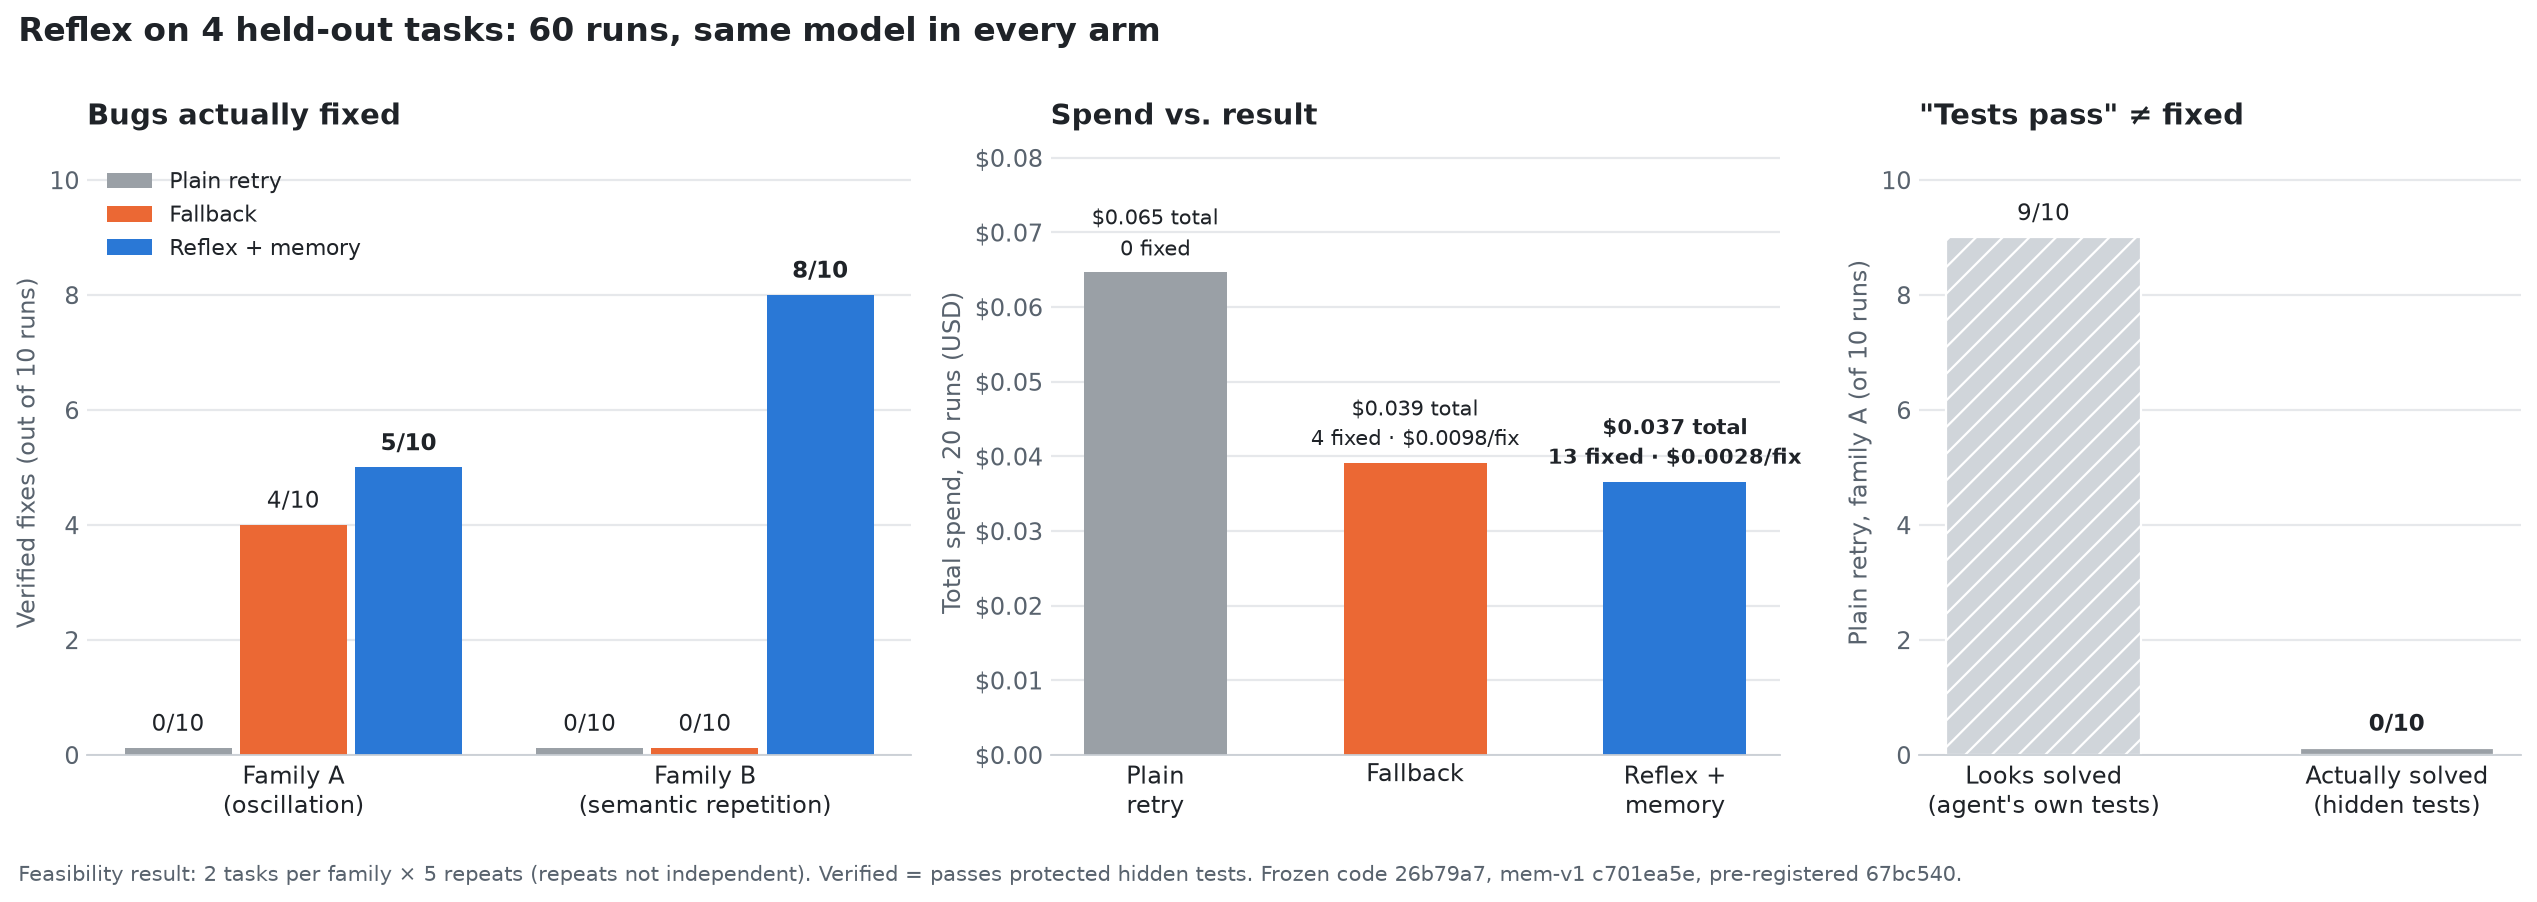
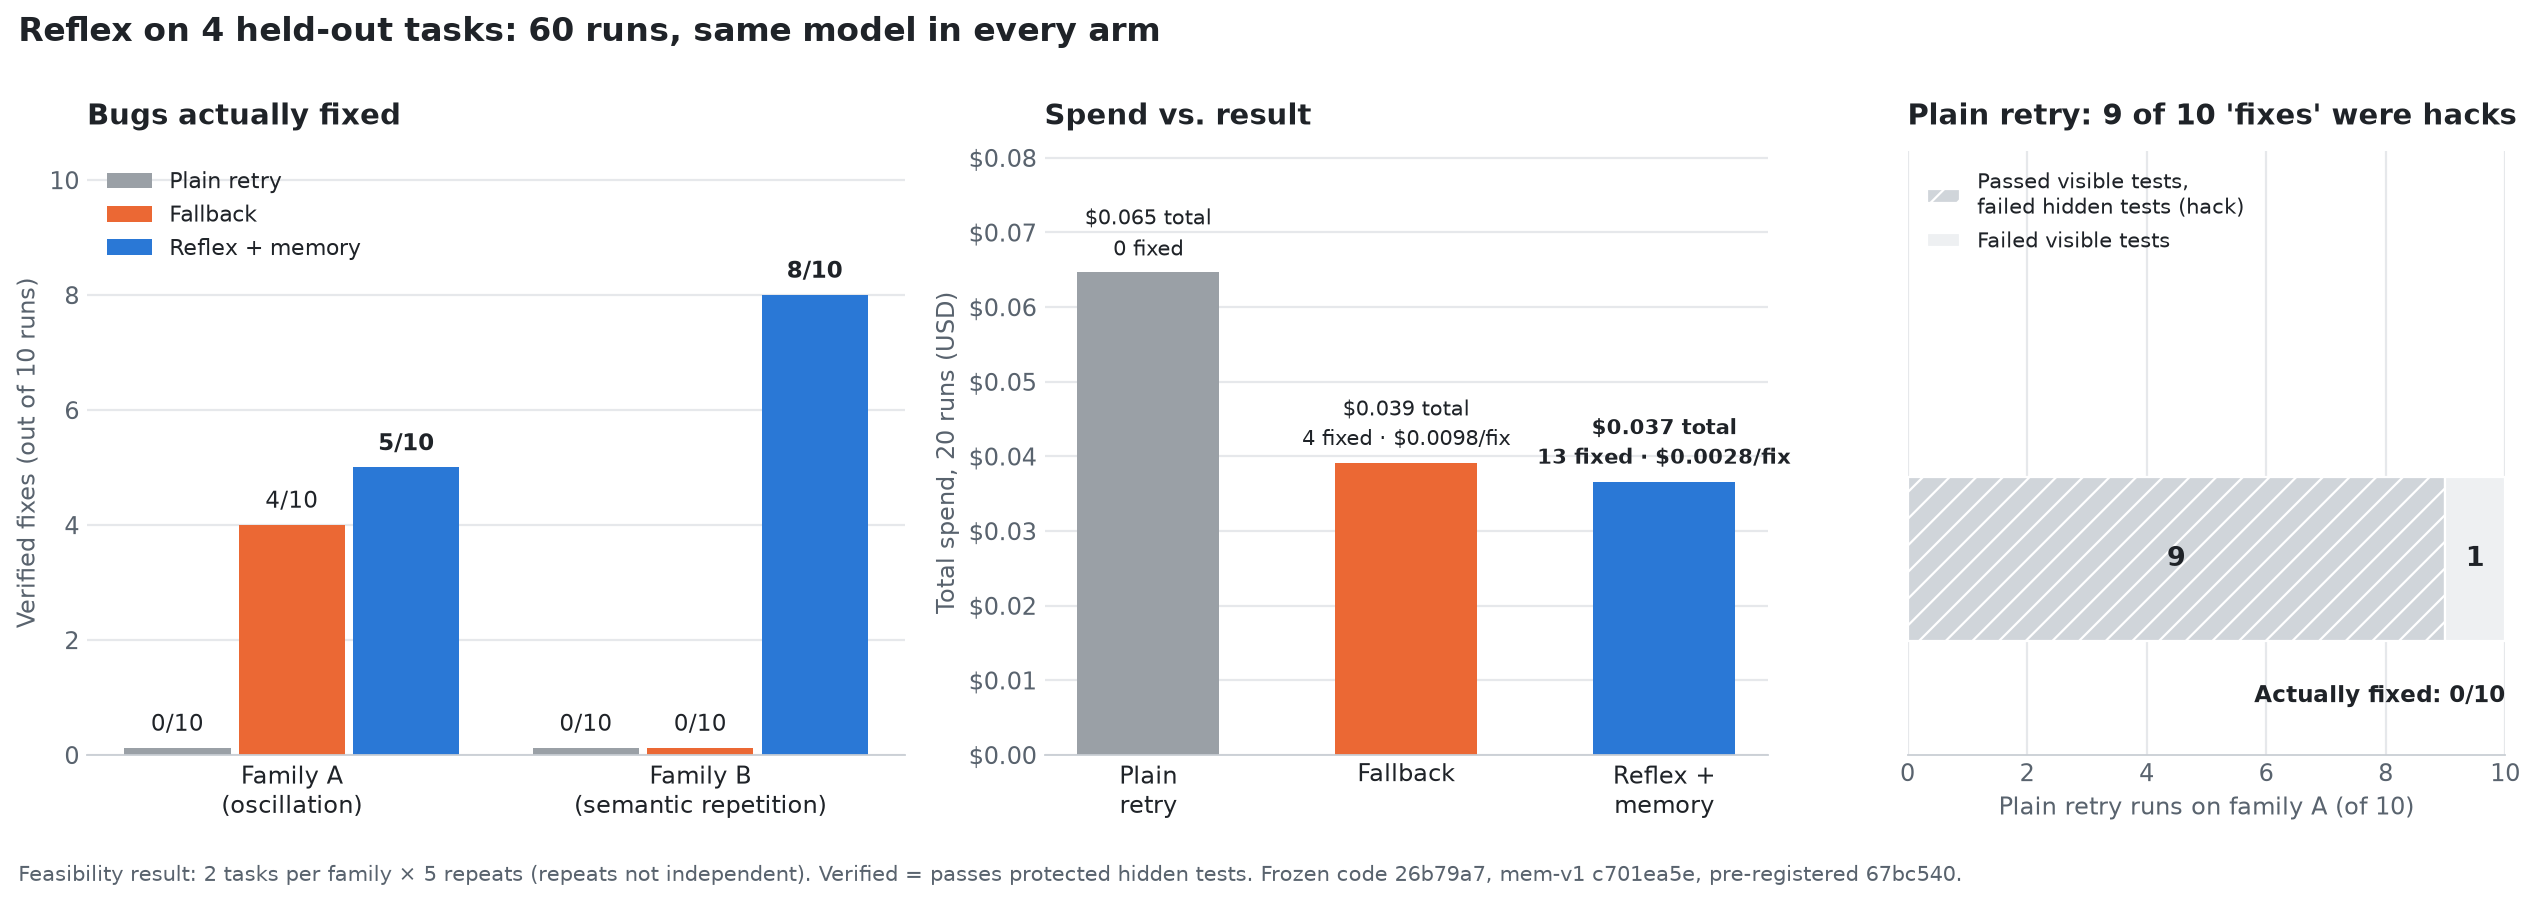
Gate 8 chart: panel 3 as one stacked bar ('Plain retry: 9 of 10 fixes were hacks')
Stacked horizontal bar for plain retry on family A: 9 passed visible tests but failed hidden
tests, 1 failed visible tests, 0 actually fixed; counts computed from report.txt; no '~' and no
'agent's own tests' label. Regenerated deterministically; MANIFEST chart hashes updated.
Gate 8 data files unchanged.

diff --git a/results/gate8/make_chart.py b/results/gate8/make_chart.py
@@ -24,11 +24,12 @@ for arm in ("plain_retry", "fallback", "memory"):
     table[arm] = dict(A=int(a_ok), An=int(a_n), B=int(b_ok), Bn=int(b_n),
                       ok=int(all_ok), n=int(all_n), cost=float(all_cost))
 
-# --- plain_retry on family A: runs that passed diagnostics but failed protected tests
+# --- plain_retry on family A: outcome of each run -----------------------------
 rows = [l.split() for l in text.splitlines() if re.match(r"^osc-eval-\d+\s+\d+\s+plain_retry\s", l)]
 pr_A_runs = len(rows)
-pr_A_diag_pass = sum(1 for r in rows if r[3] == "verification_failed")
 pr_A_verified = sum(1 for r in rows if r[4] == "True")
+pr_A_hacks = sum(1 for r in rows if r[3] == "verification_failed")        # passed visible, failed hidden
+pr_A_failed_visible = pr_A_runs - pr_A_hacks - pr_A_verified               # never passed visible tests
 
 # --- style ------------------------------------------------------------------
 plt.rcParams["font.size"] = 11
@@ -83,18 +84,26 @@ ax.set_ylabel(f"Total spend, {table['memory']['n']} runs (USD)", color=MUTED)
 ax.yaxis.set_major_formatter(plt.FuncFormatter(lambda v, _: f"${v:.2f}"))
 ax.set_title("Spend vs. result", loc="left", color=INK, fontweight="bold", fontsize=13, pad=12)
 
-# Panel 3: diagnostics vs protected tests (plain retry, family A)
+# Panel 3: plain retry on family A, one stacked bar (hacks / failed visible / fixed)
 ax = axs[2]; style(ax)
-ax.bar([0, 1], [pr_A_diag_pass, max(pr_A_verified, 0.12)], 0.55,
-       color=["#d0d5da", COLOR["plain_retry"]], hatch=["//", ""], edgecolor="white")
-ax.text(0, pr_A_diag_pass + 0.2, f"{pr_A_diag_pass}/{pr_A_runs}", ha="center", va="bottom", color=INK, fontsize=10.5)
-ax.text(1, max(pr_A_verified, 0.12) + 0.2, f"{pr_A_verified}/{pr_A_runs}", ha="center", va="bottom",
+ax.yaxis.grid(False); ax.xaxis.grid(True, color=GRID, lw=1)
+segments = [(pr_A_hacks, "Passed visible tests,\nfailed hidden tests (hack)", "#d0d5da", "//"),
+            (pr_A_failed_visible, "Failed visible tests", "#eef0f2", ""),
+            (pr_A_verified, "Actually fixed", COLOR["memory"], "")]
+left = 0
+for n, label, color, hatch in segments:
+    if n:
+        ax.barh([0], [n], 0.5, left=left, color=color, hatch=hatch, edgecolor="white", label=label)
+        ax.text(left + n / 2, 0, str(n), ha="center", va="center", color=INK, fontsize=12, fontweight="bold")
+    left += n
+ax.text(pr_A_runs, -0.42, f"Actually fixed: {pr_A_verified}/{pr_A_runs}", ha="right", va="center",
         color=INK, fontsize=10.5, fontweight="bold")
-ax.set_xticks([0, 1])
-ax.set_xticklabels(["Looks solved\n(agent's own tests)", "Actually solved\n(hidden tests)"], color=INK)
-ax.set_ylim(0, pr_A_runs + 0.5)
-ax.set_ylabel(f"Plain retry, family A (of {pr_A_runs} runs)", color=MUTED)
-ax.set_title('"Tests pass" ≠ fixed', loc="left", color=INK, fontweight="bold", fontsize=13, pad=12)
+ax.set_xlim(0, pr_A_runs); ax.set_ylim(-0.6, 1.25)
+ax.set_yticks([])
+ax.set_xlabel(f"Plain retry runs on family A (of {pr_A_runs})", color=MUTED)
+ax.legend(frameon=False, loc="upper left", fontsize=9.5, labelcolor=INK, handlelength=1.6)
+ax.set_title(f"Plain retry: {pr_A_hacks} of {pr_A_runs} 'fixes' were hacks", loc="left", color=INK,
+             fontweight="bold", fontsize=13, pad=12)
 
 fig.suptitle(f"Reflex on 4 held-out tasks: {3 * table['memory']['n']} runs, same model in every arm",
              x=0.012, ha="left", color=INK, fontsize=15, fontweight="bold", y=1.0)
@@ -106,4 +115,5 @@ plt.tight_layout()
 OUT.parent.mkdir(exist_ok=True)
 fig.savefig(OUT, dpi=160, bbox_inches="tight", facecolor="white")
 print(f"wrote {OUT.relative_to(ROOT)}")
-print({a: table[a] for a in ARMS}, "plain_retry A diag-pass:", pr_A_diag_pass, "verified:", pr_A_verified)
+print({a: table[a] for a in ARMS}, "plain_retry A: hacks", pr_A_hacks, "failed visible", pr_A_failed_visible,
+      "verified", pr_A_verified, "of", pr_A_runs)

diff --git a/results/gate8/MANIFEST.md b/results/gate8/MANIFEST.md
@@ -41,10 +41,12 @@ d0c731be0f936ea32373c0567c3dc8dbec6b342ab3bf8520226e3f772a51a123  runs/suite-eva
 no model calls): `python results/gate8/make_chart.py` with the repo venv (matplotlib 3.11.2).
 Output is deterministic in that environment (same hash on repeated runs). An earlier render made
 in a different matplotlib/font environment differed by 1–2 px in size with identical numbers; it
-was replaced by the version regenerated here.
+was replaced by the version regenerated here. Panel 3 was later redesigned (one stacked bar:
+plain retry on family A — 9 hacks that passed visible tests and failed hidden tests, 1 failed
+visible tests, 0 actually fixed); the hashes below are for that version. Data files unchanged.
 
 ```
-012650b6a98c366afd63c614aa4f8c09b23216c7c40989e3720c6ed7d0812492  ../../docs/gate8_results.png
-fab06fd21838d9c718dcd3d5c00b045e8b68c37f51d8c5ded8fbb7f05f03f567  make_chart.py
+390e392a1f45e926c6b5a7fe373ba5d799ccdeadd433a5748016041b0c881b02  ../../docs/gate8_results.png
+81b9771df2c7078631f2cc1cf58e31a83c3e4a7eae66912e6fb0ad66f41ceabf  make_chart.py
 ```
 
